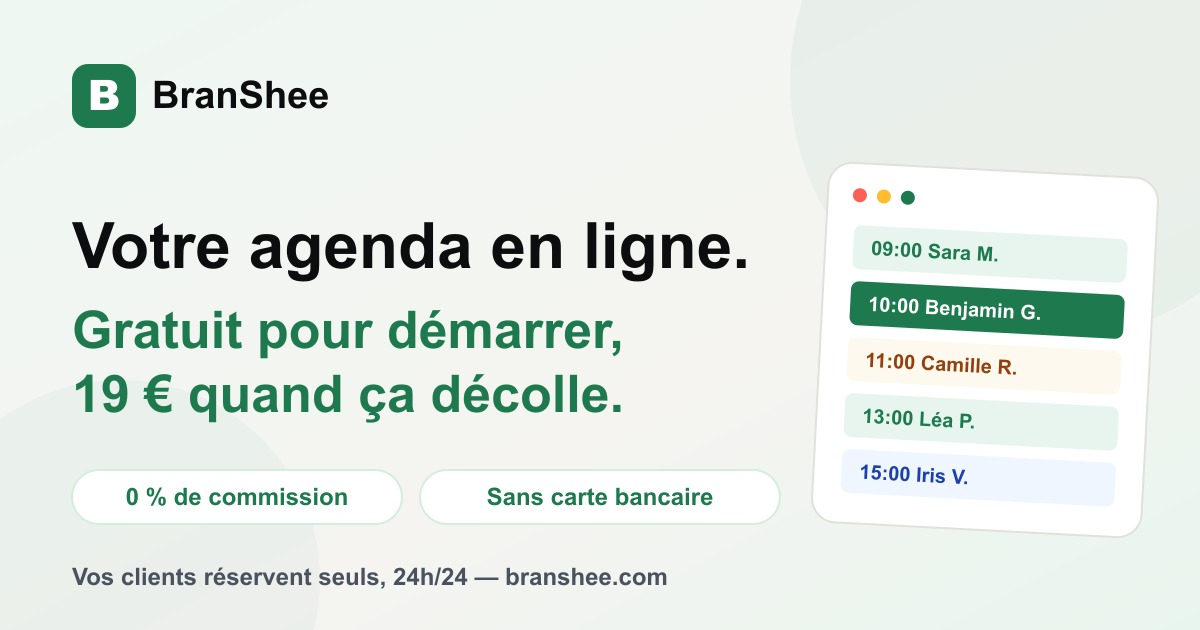
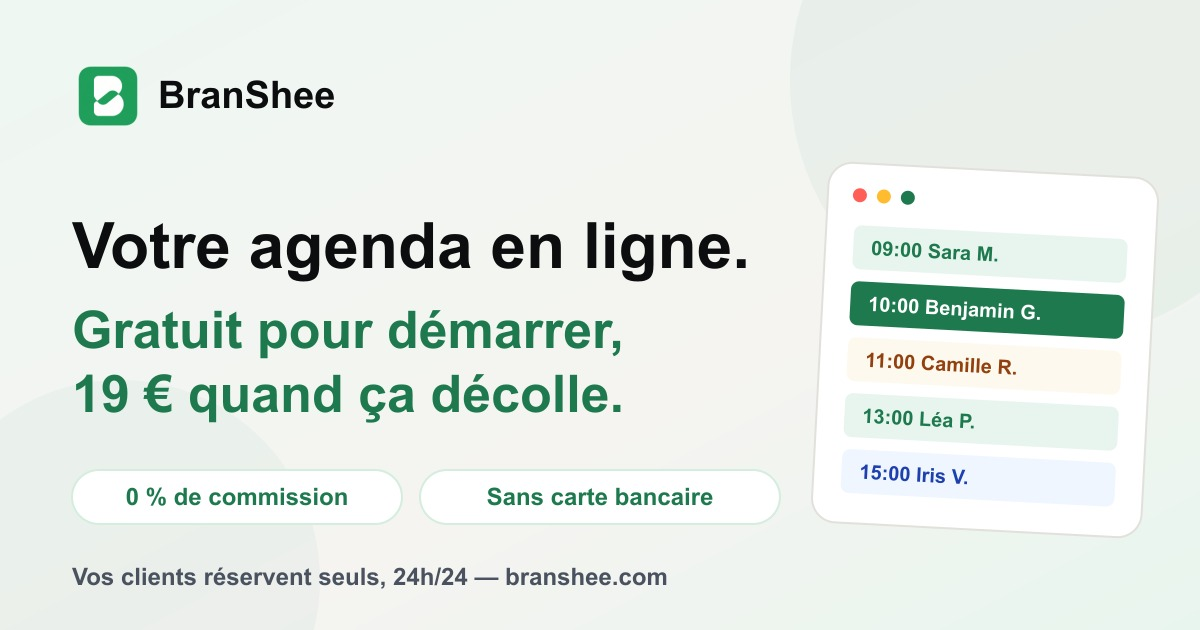
deploy

Changed region(s): [[0.0617, 0.0905, 0.2775, 0.2111]]

diff --git a/public/css/layouts/landing-page.css b/public/css/layouts/landing-page.css
@@ -891,12 +891,6 @@ html {
   width: 32px;
   height: 32px;
   border-radius: 10px;
-  background: var(--accent);
-  color: #fff;
-  display: grid;
-  place-items: center;
-  font-size: 16px;
-  font-weight: 900;
   box-shadow: 0 2px 8px rgba(30,122,78,0.35);
 }
 .pro-cta__name {
@@ -1168,12 +1162,6 @@ html {
   width: 40px;
   height: 40px;
   border-radius: 12px;
-  background: var(--accent);
-  color: #fff;
-  display: grid;
-  place-items: center;
-  font-size: 19px;
-  font-weight: 900;
   flex-shrink: 0;
   box-shadow: 0 2px 8px rgba(30, 122, 78, 0.35);
 }
@@ -1280,12 +1268,6 @@ html {
   width: 40px;
   height: 40px;
   border-radius: 12px;
-  background: var(--accent);
-  color: #fff;
-  display: grid;
-  place-items: center;
-  font-size: 19px;
-  font-weight: 900;
   box-shadow: 0 2px 8px rgba(30, 122, 78, 0.35);
 }
 .pro-honest__letter p {

diff --git a/public/css/layouts/client-booking.css b/public/css/layouts/client-booking.css
@@ -96,12 +96,6 @@ img { display: block; max-width: 100%; }
   width: 28px;
   height: 28px;
   border-radius: 8px;
-  background: var(--bk-accent);
-  color: var(--bk-accent-text);
-  display: grid;
-  place-items: center;
-  font-weight: 800;
-  font-size: 14px;
   flex-shrink: 0;
 }
 
@@ -210,15 +204,9 @@ body.bk-embed #bkCart .bk-cart {
 }
 .bk-embed-badge__mark {
   display: inline-flex;
-  align-items: center;
-  justify-content: center;
   width: 18px;
   height: 18px;
   border-radius: 6px;
-  background: #111;
-  color: #fff;
-  font-weight: 800;
-  font-size: 11px;
   flex-shrink: 0;
 }
 
